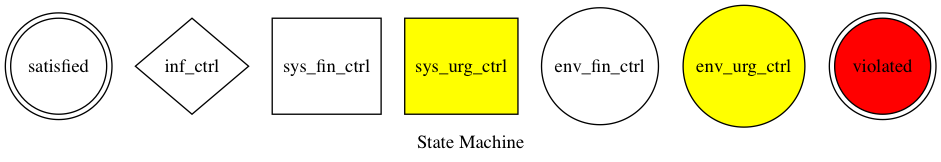
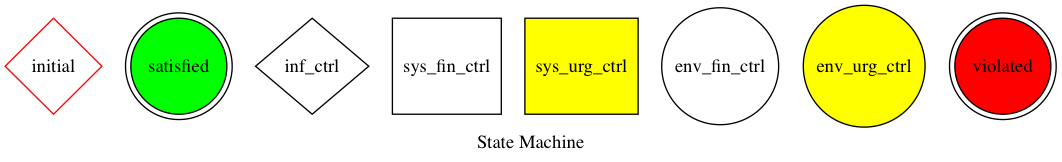
minor mods to initial state

diff --git a/gym_minigrid/safetystatemachine.py b/gym_minigrid/safetystatemachine.py
@@ -61,9 +61,7 @@ class SafetyNestedGraph(NestedGraph):
                 'color': 'black'
             },
             'active': {
-                'color': 'black',
-                'fillcolor': 'white',
-                'shape': 'doublecircle'
+                'color': 'red'
             },
             'previous': {
                 'color': 'blue',
@@ -201,8 +199,7 @@ class SafetyStateMachine(object):
                                      states=states,
                                      transitions=transitions,
                                      initial=initial,
-                                     show_conditions=True,
-                                     ignore_invalid_triggers=True
+                                     show_conditions=True
                                      )
 
         # Agent's observations

diff --git a/gym_minigrid/automata.py b/gym_minigrid/automata.py
@@ -150,6 +150,9 @@ class TestStateTypes(SafetyStateMachine):
 
     states = [
 
+        {'name': 'initial',
+         'type': 'inf_ctrl'},
+
         {'name': 'satisfied',
          'type': 'satisfied'},
 
@@ -176,5 +179,5 @@ class TestStateTypes(SafetyStateMachine):
 
     def __init__(self, name, notify):
         # Initializing the SafetyStateMachine
-        super().__init__(name, TestStateTypes.states, TestStateTypes.transitions, 'satisfied', notify)
+        super().__init__(name, TestStateTypes.states, TestStateTypes.transitions, 'initial', notify)
 
